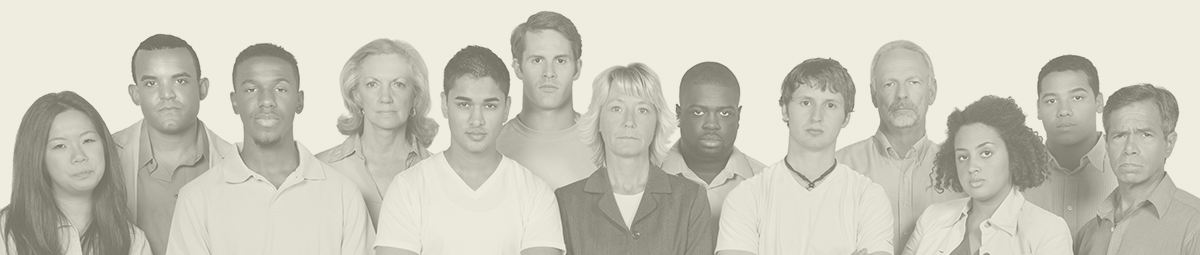
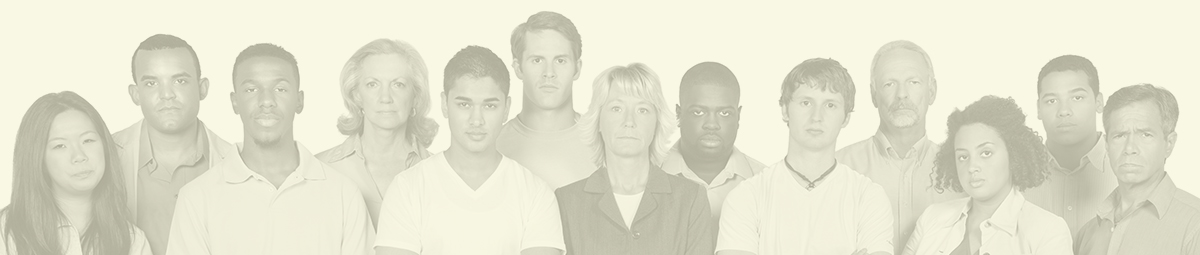
Added quotes section image

diff --git a/css/index.css b/css/index.css
@@ -122,16 +122,9 @@ header .headlines p {
     text-align: center;
     text-shadow: 0 0 8px #f1f1f1;
 }
-/*@media screen and (max-width: 839px) {
-    header .headlines h1 {
-        font-size: 37px;
-    }
-}*/
 @media screen and (max-width: 769px) {
     header .headlines h1 {
         font-size: 40px;
-        /*line-height: 1.2;
-        max-width: 320px;*/
     }
     header .headlines h2 {
         font-size: 24px;
@@ -155,12 +148,10 @@ header .headlines p {
     max-width: 998px;
 }
 .petition-and-form-wrapper > .outer-padding {
-    /*background-image: url(../images/pattern-dark-blue.png);*/
     margin: 0 16px;
 }
 .petition {
     background-color: #f1f1f1;
-    /*background-image: url(../images/pattern-gray.png);*/
     box-shadow: 0 0 14px rgba(0, 0, 0, 0.3);
     color: #000812;
     font-size: 20px;
@@ -206,7 +197,6 @@ header .headlines p {
 }
 .action {
     background: #1c366d;
-    /*background-image: url('../images/pattern-blue.png');*/
     box-shadow: 0 0 14px rgba(0, 0, 0, 0.3);
     margin: 0 auto;
     max-width: 413px;
@@ -353,8 +343,6 @@ header .headlines p {
 .action-wrapper .counter {
     display: none;
     background-color: #112347;
-    /*background-image: url(../images/pattern-dark-blue.png);*/
-    /*box-shadow: 0 0 14px rgba(0, 0, 0, 0.3);*/
     margin: 0 auto;
     max-width: 413px;
     position: relative;
@@ -428,6 +416,7 @@ button {
     width: 100%;
 }
 .more-info-header h4 {
+    background-color: #c3dea8;
     background-image: url(../images/background-cash-light.jpg);
     background-size: cover;
     color: #002b88;
@@ -436,41 +425,10 @@ button {
     font-weight: bold;
     line-height: 1.4;
     margin: 0 0 40px;
-    padding: 85px 16px 70px;
+    padding: 85px 16px 80px;
     text-shadow: 0 0 20px rgba(255, 255, 255, 0.7);
     width: 100%;
     word-spacing: 1px;
-}
-/*.background-cash {
-    background-color: #e2f5d2;
-    background-image: url(../images/bg-moola.jpg);
-    background-position: 0 50%;
-    background-repeat: no-repeat;
-    background-size: cover;
-}
-.background-team {
-    background-attachment: fixed;
-    background-color: #e4e2e3;
-    background-image: url(../images/bg-tools-BW.jpg);
-    background-position: 50% 0;
-    background-repeat: no-repeat;
-    background-size: cover;
-    box-shadow: inset 0 0 17px rgba(0, 0, 0, 0.2);
-}*/
-@media (max-width: 769px) {
-    .background-cash {}
-    .background-team {
-        background-size: 120%;
-        background-position: 50% 0;
-    }
-}
-.more-info-header .gradient-light {
-    background-image: url('../images/gradient-light.png');
-    bottom: 0;
-    left: 0;
-    height: 60px;
-    position: absolute;
-    width: 100%;
 }
 .petition .sign-the-petition, .more-info-header .sign-the-petition {
     background-color: #ff0000;
@@ -500,12 +458,8 @@ button {
         display: none;
     }
     .more-info-header {
-        /*max-width: 413px;*/
         padding: 0;
     }
-    /*.more-info-header h4 {
-        font-size: 24px;
-    }*/
     .more-info-header .sign-the-petition {
         display: block;
     }
@@ -531,35 +485,29 @@ section.even-more-info {
     padding: 24px 0 25px;
     position: relative;
 }
-/*section.even-more-info .gradient-light {
-    background-image: url('../images/gradient-light.png');
-    bottom: 0;
-    left: 0;
-    height: 60px;
-    position: absolute;
-    width: 100%;
-}*/
 section.even-more-info h4 {
-    background-image: url(../images/background-cash-light.jpg);
-    background-size: cover;
     color: #002b88;
     display: inline-block;
     font-size: 40px;
     font-weight: bold;
     line-height: 1.4;
     margin: 0 0 40px;
-    padding: 80px 0 70px;
+    padding: 85px 0 85px;
     text-shadow: 0 0 20px rgba(255, 255, 255, 0.7);
     width: 100%;
     word-spacing: 1px;
 }
 section.even-more-info h4.agenda-header {
+    background-color: #baaf9d;
     background-image: url(../images/background-tools.jpg);
     background-size: cover;
 }
 section.even-more-info h4.quotes-header {
+    background-color: #f7f5d8;
     background-image: url(../images/background-people2.jpg);
     background-size: cover;
+    font-size: 60px;
+    padding: 145px 0 25px;
 }
 section.even-more-info .quote-and-portrait {
     overflow: hidden;
@@ -779,94 +727,8 @@ section.even-more-info button.sign-the-petition {
     font-size: 22px;
     padding: 0 28px;
 }
-/*section .year {
-    margin: 0 auto 26px;
-    max-width: 550px;
-    overflow: hidden;
-    position: relative;
-    text-align: left;
-}
-section .year .number {
-    color: #b41615;
-    float: left;
-    font-size: 24px;
-    font-weight: bold;
-    line-height: 1.3;
-    width: 66px;
-}
-section .year .description {
-    color: #f1f1f1;
-    float: right;
-    line-height: 1.4;
-    padding: 0 0 0 17px;
-    position: relative;
-    width: calc(100% - 66px);
-}
-section .year .description::before {
-    content: '';
-    background-color: #b41615;
-    top: 7px;
-    height: calc(100% - 15px);
-    width: 3px;
-    left: 0;
-    position: absolute;
-}
-section .branch {
-    margin: 0 auto 26px;
-    max-width: 720px;
-    overflow: hidden;
-    position: relative;
-    text-align: left;
-}
-section .branch .name {
-    color: #b41615;
-    float: left;
-    font-size: 24px;
-    font-weight: bold;
-    line-height: 1.3;
-    text-align: right;
-    width: 120px;
-}
-section .branch .description {
-    color: #f1f1f1;
-    float: right;
-    line-height: 1.4;
-    margin: 0 0 0 18px;
-    padding: 0 0 0 28px;
-    position: relative;
-    width: calc(100% - 138px);
-}
-section .branch .description::before {
-    content: '';
-    background-color: #b41615;
-    top: 7px;
-    height: calc(100% - 15px);
-    width: 3px;
-    left: 0;
-    position: absolute;
-}
-@media screen and (max-width: 399px) {
-    section .branch .name {
-        font-size: 18px;
-        width: 70px;
-    }
-    section .branch .name.executive-order {
-        font-size: 13px;
-    }
-    section .branch .description {
-        font-size: 15px;
-        margin: 0;
-        padding: 0 0 0 18px;
-        width: calc(100% - 84px);
-    }
-}
-section .undisclosed-spending-infographic {
-    padding: 18px 0 15px;
-    max-width: 100%;
-}*/
 section a {
     color: #2f4c8c;
-    /*font-weight: bold;*/
     font-style: italic;
 }
 section a:hover {
@@ -874,7 +736,6 @@ section a:hover {
 }
 section p {
     font-size: 18px;
-    /*font-weight: 300;*/
     line-height: 26px;
     margin: 0 auto 25px auto;
     max-width: 830px;
